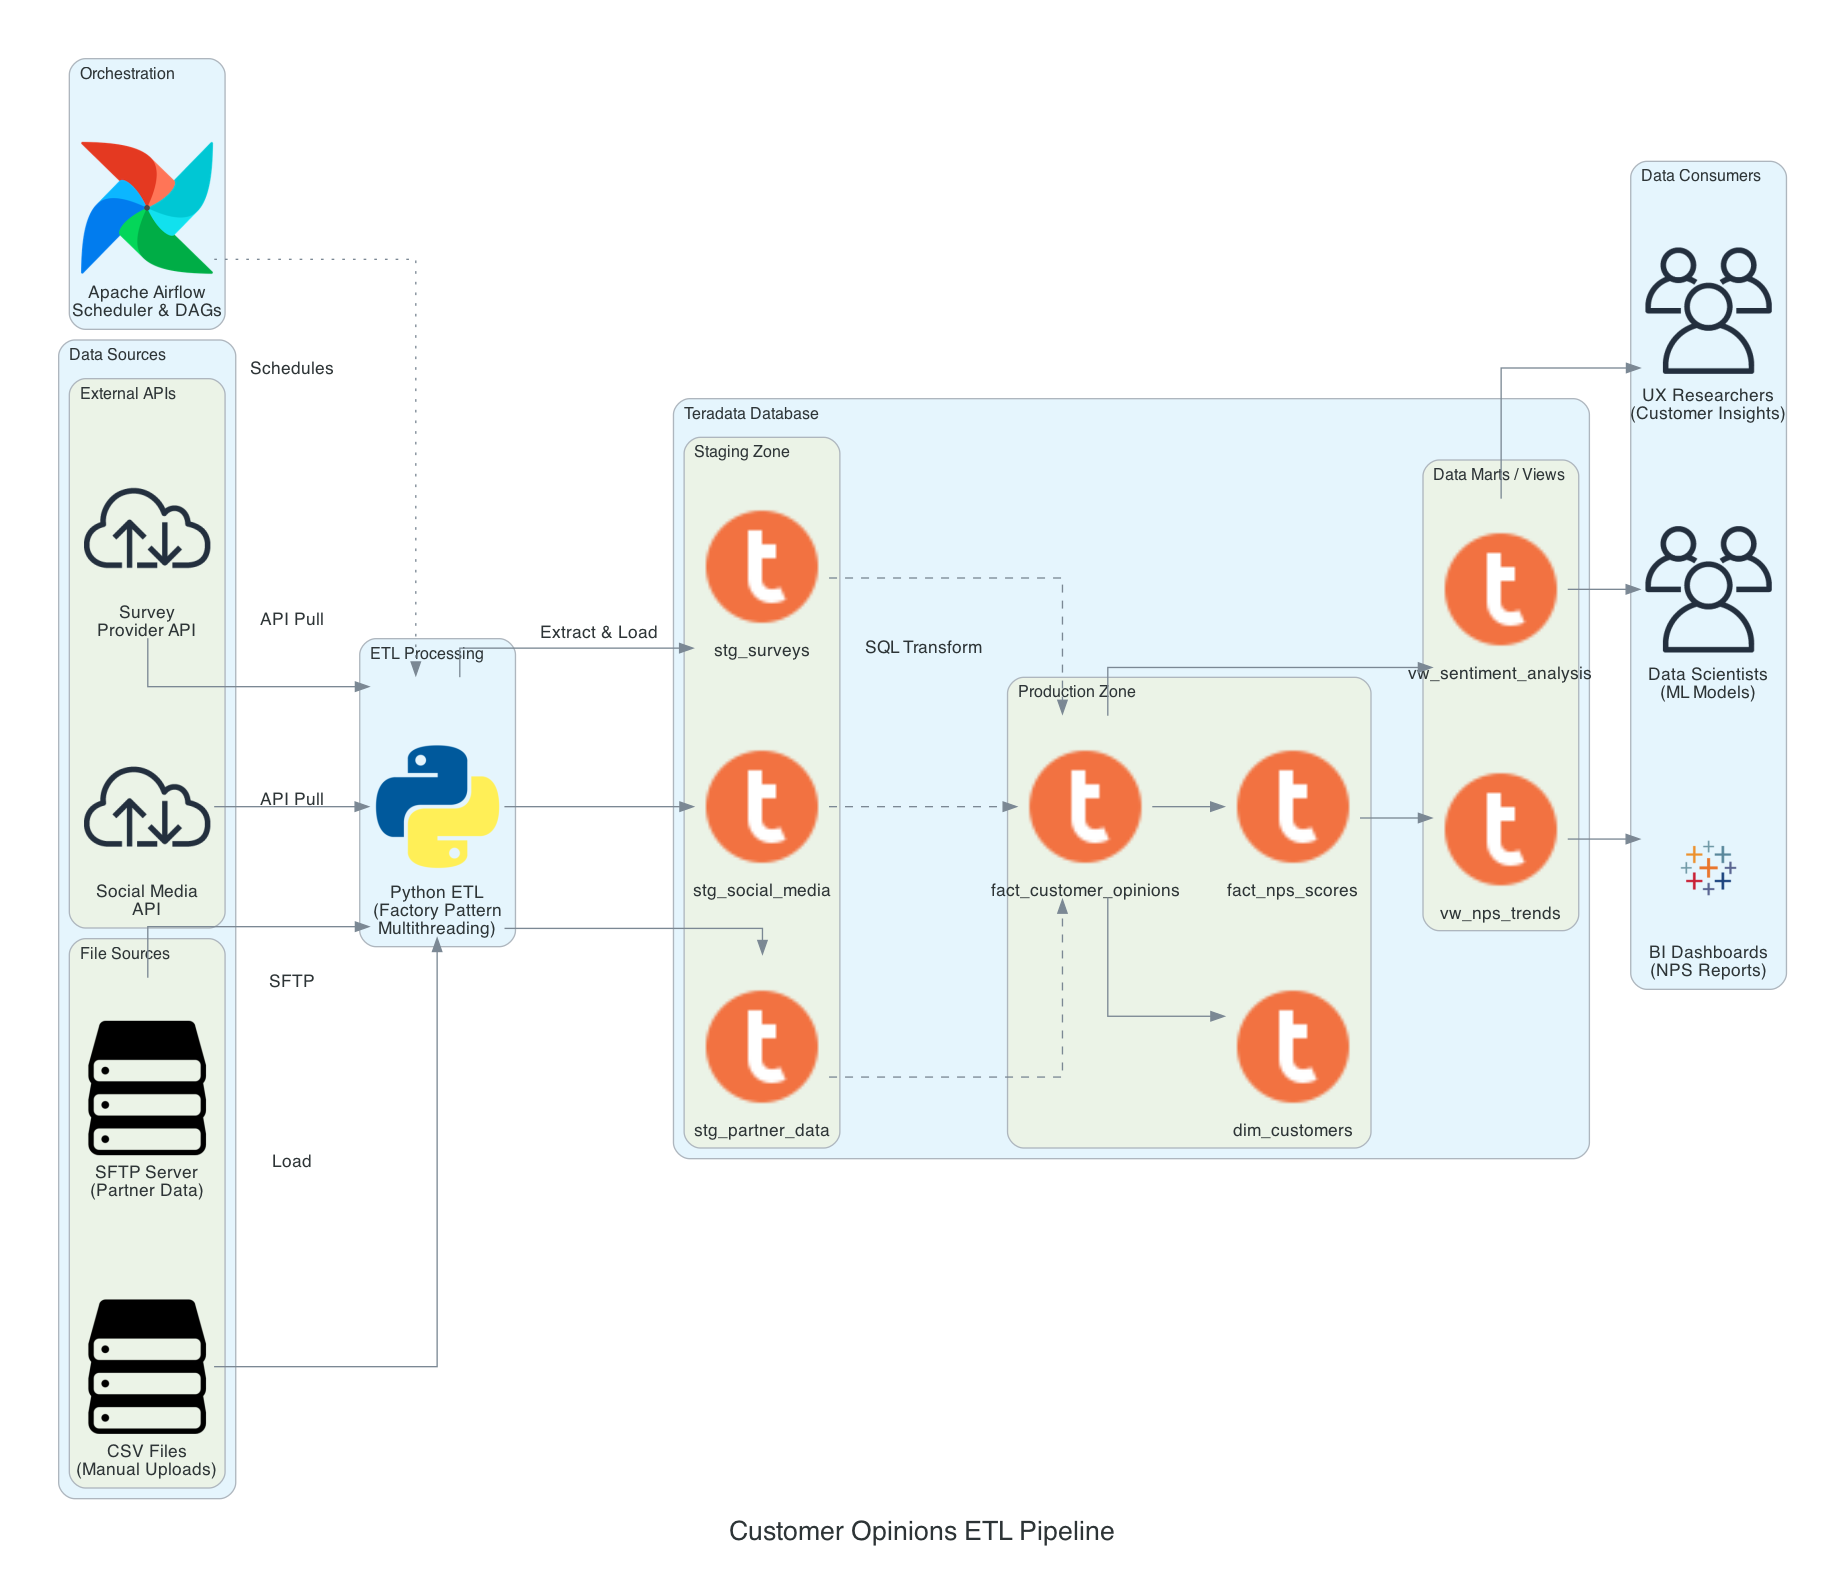
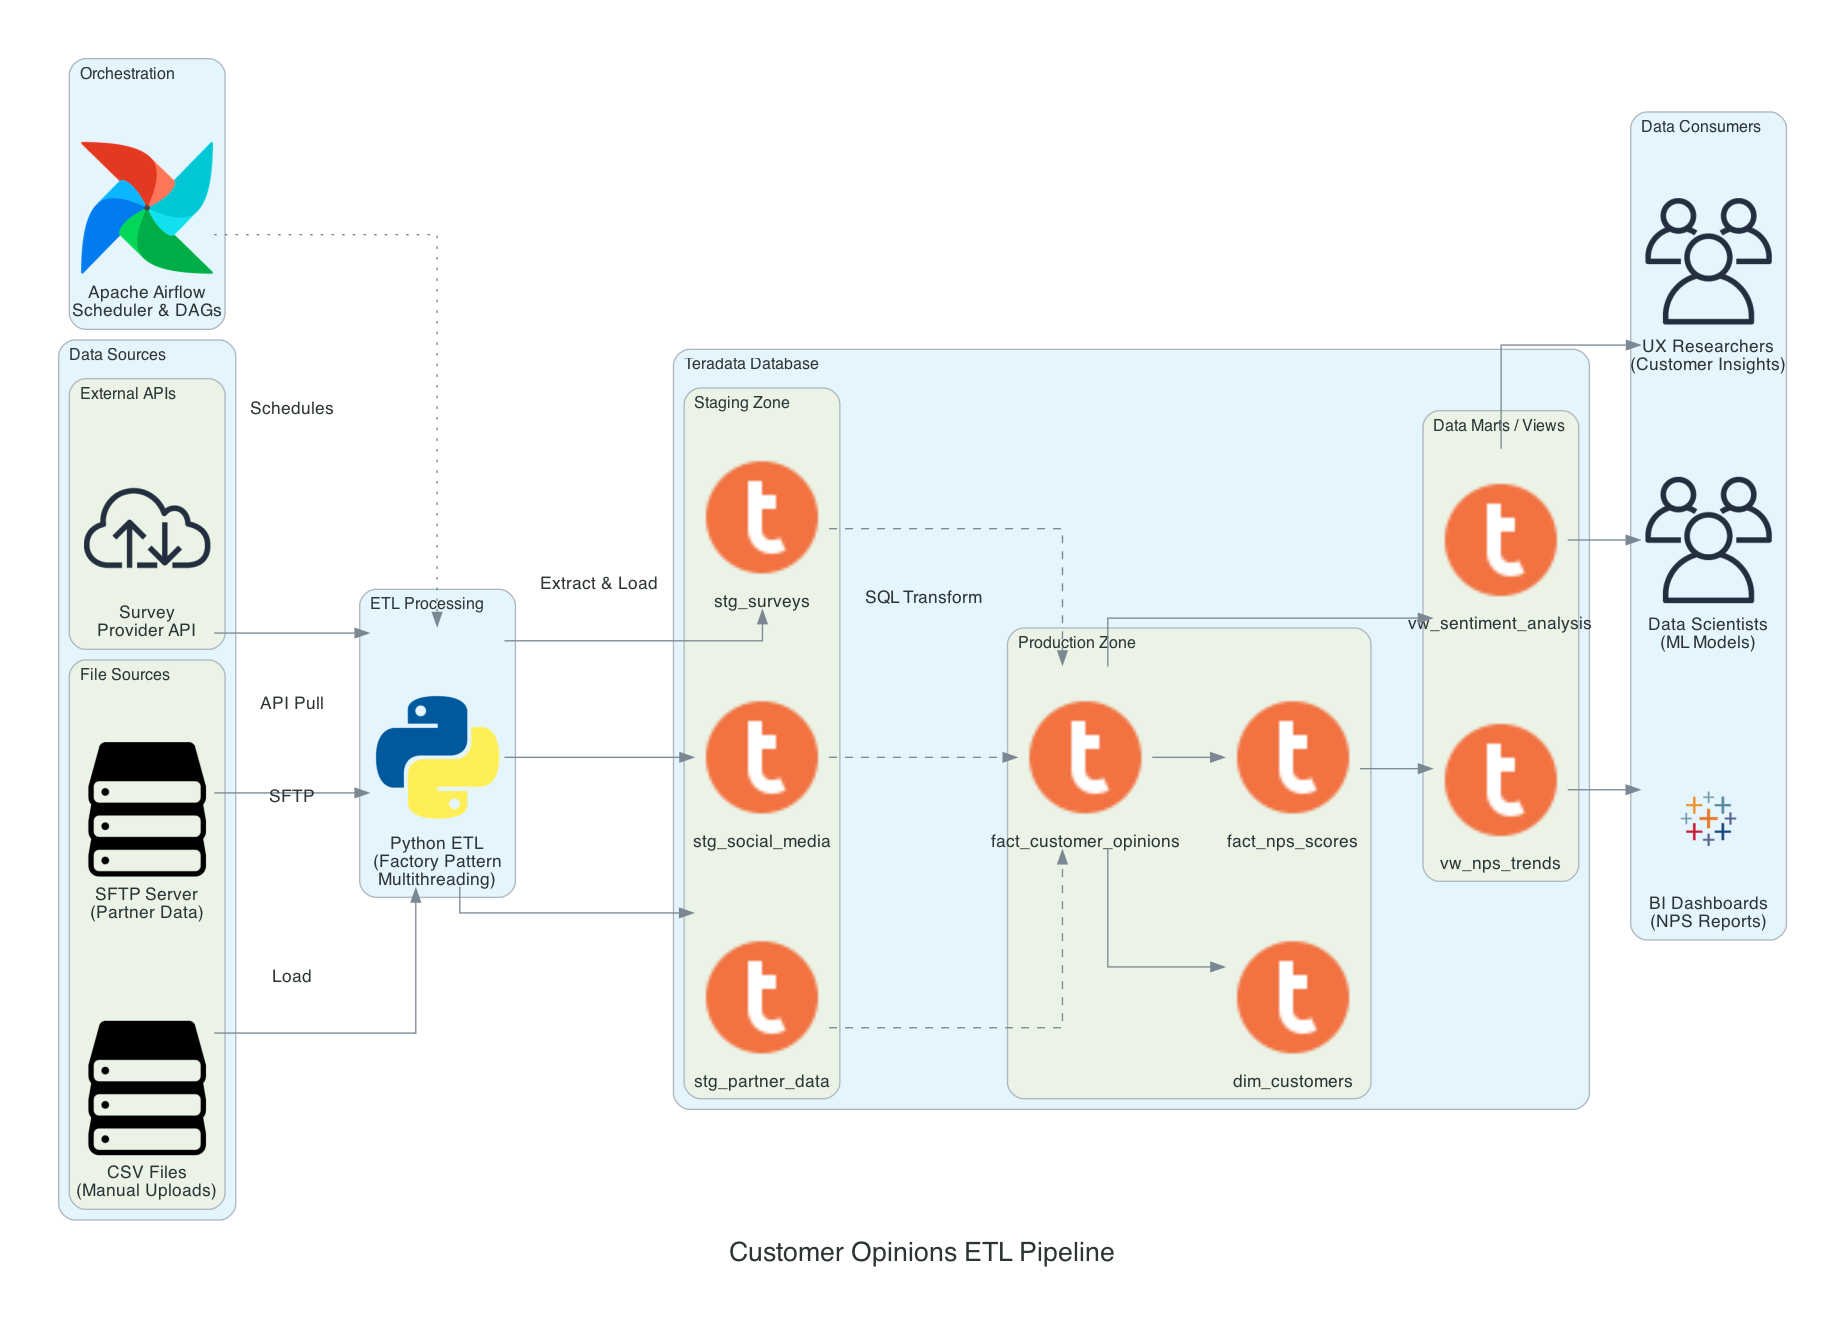
diagram simplification by removing one of the sources

diff --git a/customer-opinions-etl/generate_architecture_diagram.py b/customer-opinions-etl/generate_architecture_diagram.py
@@ -5,14 +5,15 @@ All orchestrated by Apache Airflow.
 """
 
 import os
-from diagrams import Diagram, Cluster, Edge
-from diagrams.onprem.workflow import Airflow
+
+from diagrams import Cluster, Diagram, Edge
+from diagrams.custom import Custom
+from diagrams.generic.storage import Storage
 from diagrams.onprem.analytics import Tableau
 from diagrams.onprem.client import Users
-from diagrams.generic.storage import Storage
-from diagrams.programming.language import Python
 from diagrams.onprem.network import Internet
-from diagrams.custom import Custom
+from diagrams.onprem.workflow import Airflow
+from diagrams.programming.language import Python
 
 # Custom icon path
 SCRIPT_DIR = os.path.dirname(os.path.abspath(__file__))
@@ -38,7 +39,6 @@ def generate_diagram():
         direction="LR",
         graph_attr=GRAPH_ATTR,
     ):
-
         # Orchestration layer - Airflow at the top
         with Cluster("Orchestration"):
             airflow = Airflow("Apache Airflow\nScheduler & DAGs")
@@ -47,7 +47,6 @@ def generate_diagram():
         with Cluster("Data Sources"):
             with Cluster("External APIs"):
                 survey_api = Internet("Survey\nProvider API")
-                social_api = Internet("Social Media\nAPI")
 
             with Cluster("File Sources"):
                 sftp_server = Storage("SFTP Server\n(Partner Data)")
@@ -81,7 +80,6 @@ def generate_diagram():
 
         # Connections - Data flow from sources to staging
         survey_api >> Edge(label="API Pull") >> python_etl
-        social_api >> Edge(label="API Pull") >> python_etl
         sftp_server >> Edge(label="SFTP") >> python_etl
         csv_files >> Edge(label="Load") >> python_etl
 
